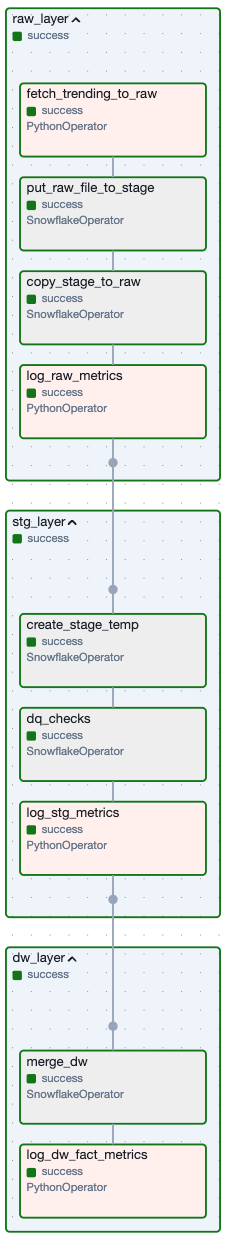
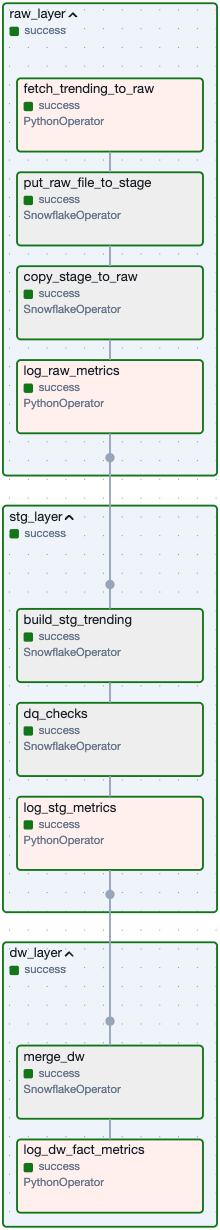
moved create stg table logic to bootstrap

Changed region(s): [[0.0, 0.0, 1.0, 1.0]]

diff --git a/airflow/dags/tmdb_trending_bootstrap_dag.py b/airflow/dags/tmdb_trending_bootstrap_dag.py
@@ -28,8 +28,14 @@ with DAG(
         sql="raw/01_create_raw_layer.sql",
     )
 
-    create_dw_tables = SnowflakeOperator(
-        task_id="create_dw_tables",
+    create_stg_layer = SnowflakeOperator(
+        task_id="create_stg_layer",
+        snowflake_conn_id=DEFAULT_CONN_ID,
+        sql="stg/01_create_stg_table.sql",
+    )
+
+    create_dw_layer = SnowflakeOperator(
+        task_id="create_dw_layer",
         snowflake_conn_id=DEFAULT_CONN_ID,
         sql="dw/01_create_dw_tables.sql",
     )
@@ -40,4 +46,4 @@ with DAG(
         sql="dw/02_create_pipeline_metrics.sql",
     )
 
-    create_raw_layer >> create_dw_tables >> create_pipeline_metrics
+    create_raw_layer >> create_stg_layer >> create_dw_layer >> create_pipeline_metrics

diff --git a/airflow/dags/tmdb_trending_dag.py b/airflow/dags/tmdb_trending_dag.py
@@ -77,10 +77,10 @@ with DAG(
     # ---------------------------
     with TaskGroup(group_id="stg_layer") as stg_layer:
 
-        create_stage_temp = SnowflakeOperator(
-            task_id="create_stage_temp",
+        build_stg_trending = SnowflakeOperator(
+            task_id="build_stg_trending",
             snowflake_conn_id=DEFAULT_CONN_ID,
-            sql="stg/01_create_stage_temp_trending.sql",
+            sql="stg/02_build_stg_trending.sql",
         )
 
         dq_checks = SnowflakeOperator(
@@ -99,7 +99,7 @@ with DAG(
             },
         )
 
-        create_stage_temp >> dq_checks >> log_stg_metrics
+        build_stg_trending >> dq_checks >> log_stg_metrics
 
     # ---------------------------
     # DW layer TaskGroup

diff --git a/README.md b/README.md
@@ -32,12 +32,18 @@ flowchart LR
     TMDB[TMDB Trending API]
 
     subgraph Airflow["Apache Airflow"]
-        FETCH[Fetch Trending Snapshot]
-        LOAD_RAW[Load RAW JSON]
-        STG_BUILD[Build STG Tables]
-        DQ[Data Quality Checks]
-        MERGE_DW[Merge into DW]
-        METRICS[Log Pipeline Metrics]
+        subgraph BOOT["Bootstrap DAG (one-time)"]
+            BOOT_DDL[Create Snowflake Objects (RAW/STG/DW)]
+        end
+
+        subgraph PIPE["Pipeline DAG (daily)"]
+            FETCH[Fetch Trending Snapshot]
+            LOAD_RAW[Load RAW JSON (PUT + COPY)]
+            STG_POP[Build STG Rows (DELETE + INSERT)]
+            DQ[Data Quality Checks]
+            MERGE_DW[Merge into DW]
+            METRICS[Log Pipeline Metrics]
+        end
     end
 
     subgraph Snowflake["Snowflake"]
@@ -48,12 +54,20 @@ flowchart LR
         METRIC_TBL[(DW\nPIPELINE_METRICS)]
     end
 
+    %% Bootstrap
+    BOOT_DDL --> RAW
+    BOOT_DDL --> STG
+    BOOT_DDL --> DIM
+    BOOT_DDL --> FACT
+    BOOT_DDL --> METRIC_TBL
+
+    %% Daily pipeline
     TMDB --> FETCH
     FETCH --> LOAD_RAW
     LOAD_RAW --> RAW
 
-    RAW --> STG_BUILD
-    STG_BUILD --> STG
+    RAW --> STG_POP
+    STG_POP --> STG
     STG --> DQ
 
     STG --> MERGE_DW
@@ -61,12 +75,18 @@ flowchart LR
     MERGE_DW --> FACT
 
     LOAD_RAW --> METRICS
-    STG_BUILD --> METRICS
+    STG_POP --> METRICS
     MERGE_DW --> METRICS
     METRICS --> METRIC_TBL
+
 ```
 
 The pipeline is orchestrated by Airflow and follows a layered **RAW → STG → DW** design in Snowflake, with built-in data quality checks and operational metrics to ensure correctness and observability.
+
+<img src="https://github.com/kngsoomin/tmdb-trending-data-pipeline/blob/30b4eea0fe1b2f25efc3e025f8f7798247d42d6b/dag_graph_view.png"
+     width="120" />
+
+> Airflow DAG with layered TaskGroups (RAW → STG → DW) and metric logging tasks
 
 ---
 
@@ -225,4 +245,5 @@ Run tests locally:
 ```bash
 make test
 ```
+
 # tmdb-trending-data-pipeline
